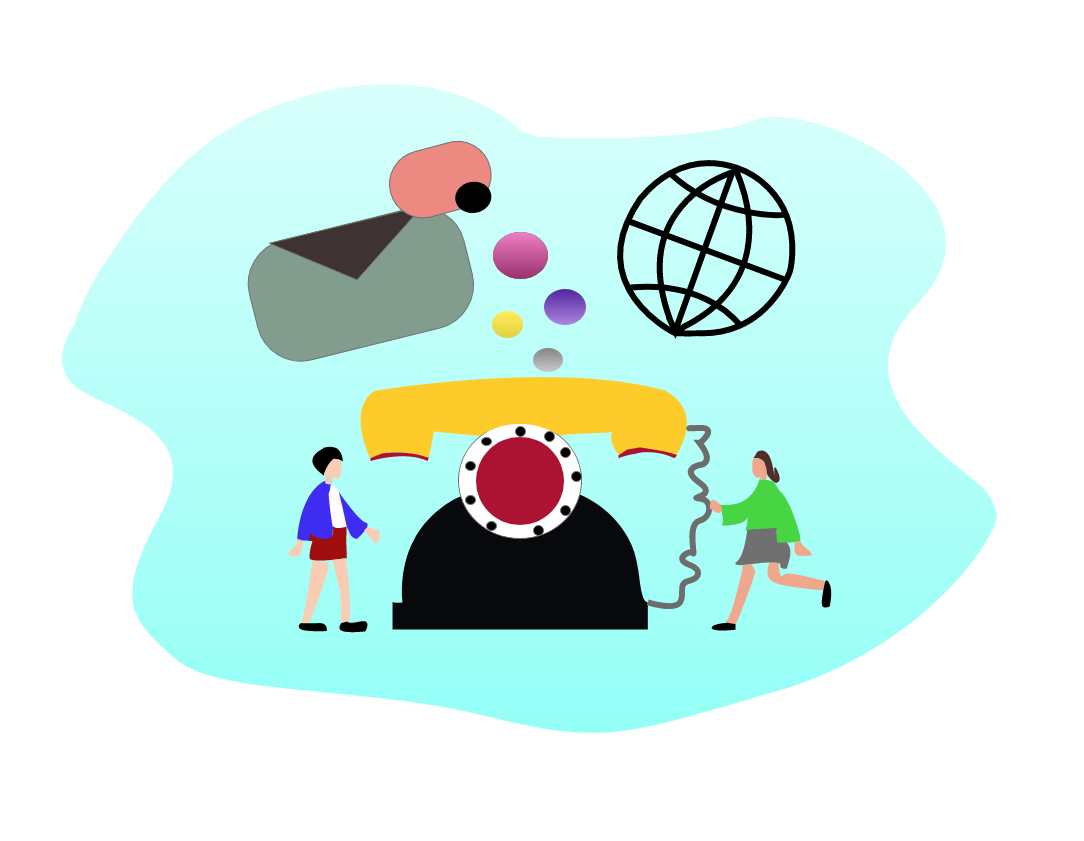
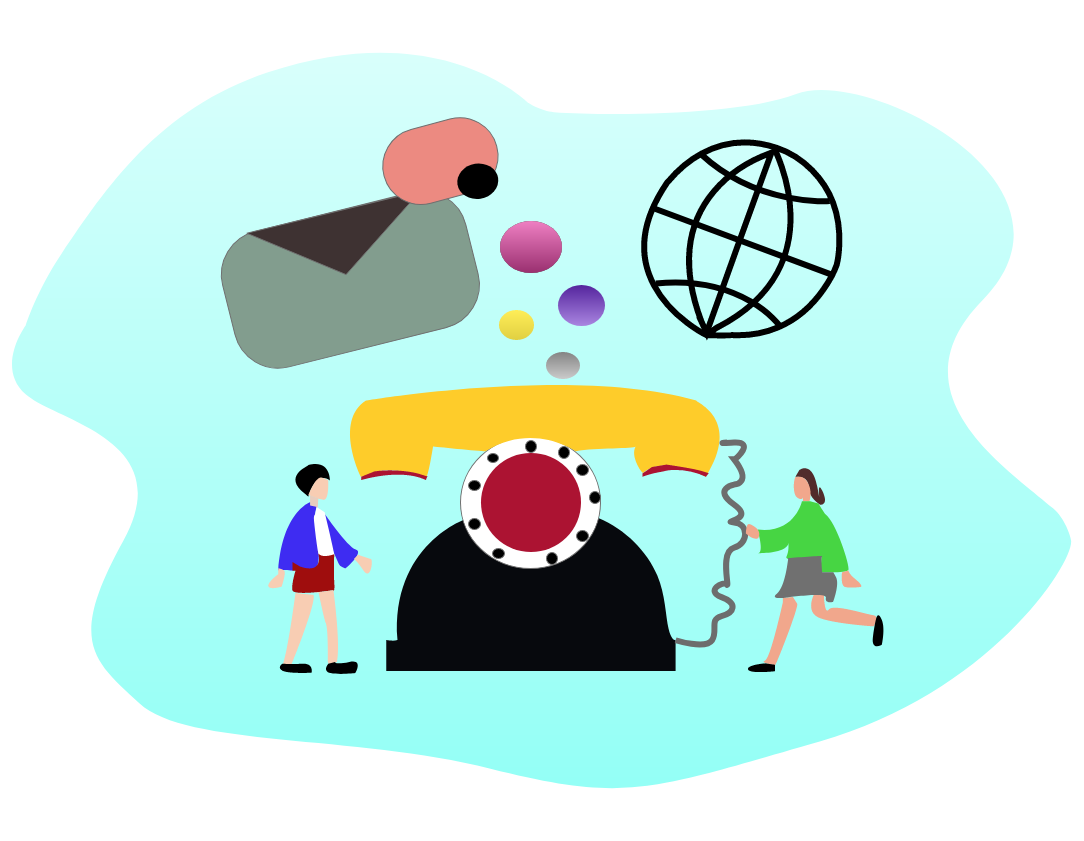
contact

Changed region(s): [[0.0, 0.0618, 1.0, 0.9584], [0.3958, 0.371, 0.4262, 0.4019], [0.3044, 0.3092, 0.3349, 0.3401]]

diff --git a/raxoweb/src/components/modules/ContactUsComponent/index.jsx b/raxoweb/src/components/modules/ContactUsComponent/index.jsx
@@ -61,7 +61,7 @@ export default class ContactUs extends Component {
 
 
           <div className="contact-us-image">
-<img src="https://cdn.dribbble.com/users/2385564/screenshots/5290122/contact_us-illustration_2x.png"/>
+           <img src={require('../../../media/images/character-contact.png')}/>
           </div>
           <div className="contact-us-content-container">
             <div className="contact-us-content">

diff --git a/raxoweb/src/scss/contactUs.scss b/raxoweb/src/scss/contactUs.scss
@@ -5,7 +5,7 @@
   background: #fff;
   .contact-us-wrapper{
     display: flex;
-    min-height: 300px;
+    min-height: 350px;
     flex-direction: row-reverse;
     height: fit-content;
     @media(max-width:700px){
@@ -18,8 +18,8 @@ width: 50%;
   width: 100%;
  }
  img{
- height: 300px;
- width: 100%;
+ height: 350px;
+//  width: 100%;
  }
     }
     .contact-us-content-container{
